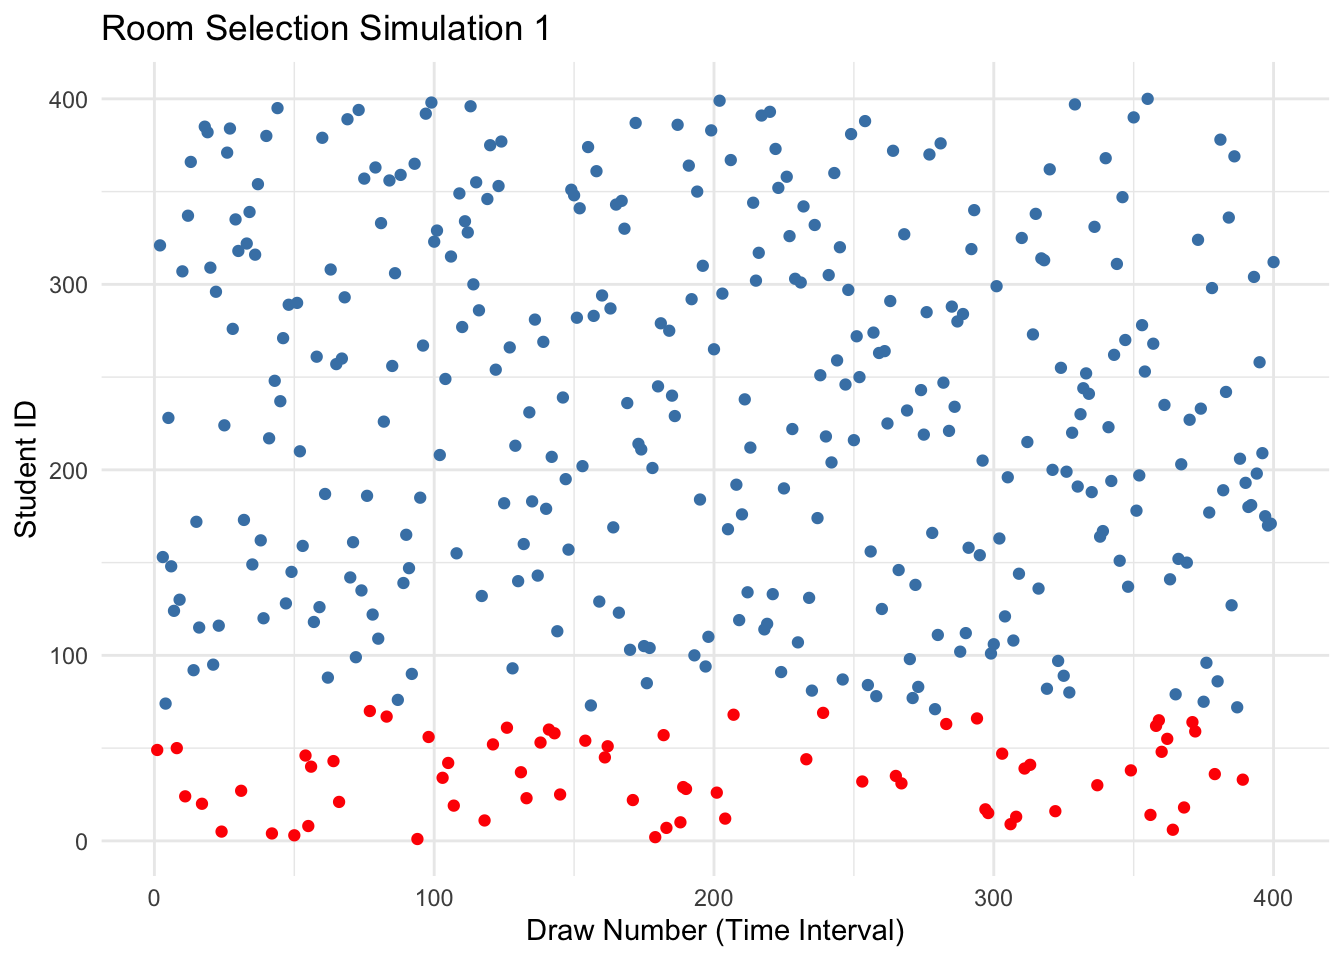
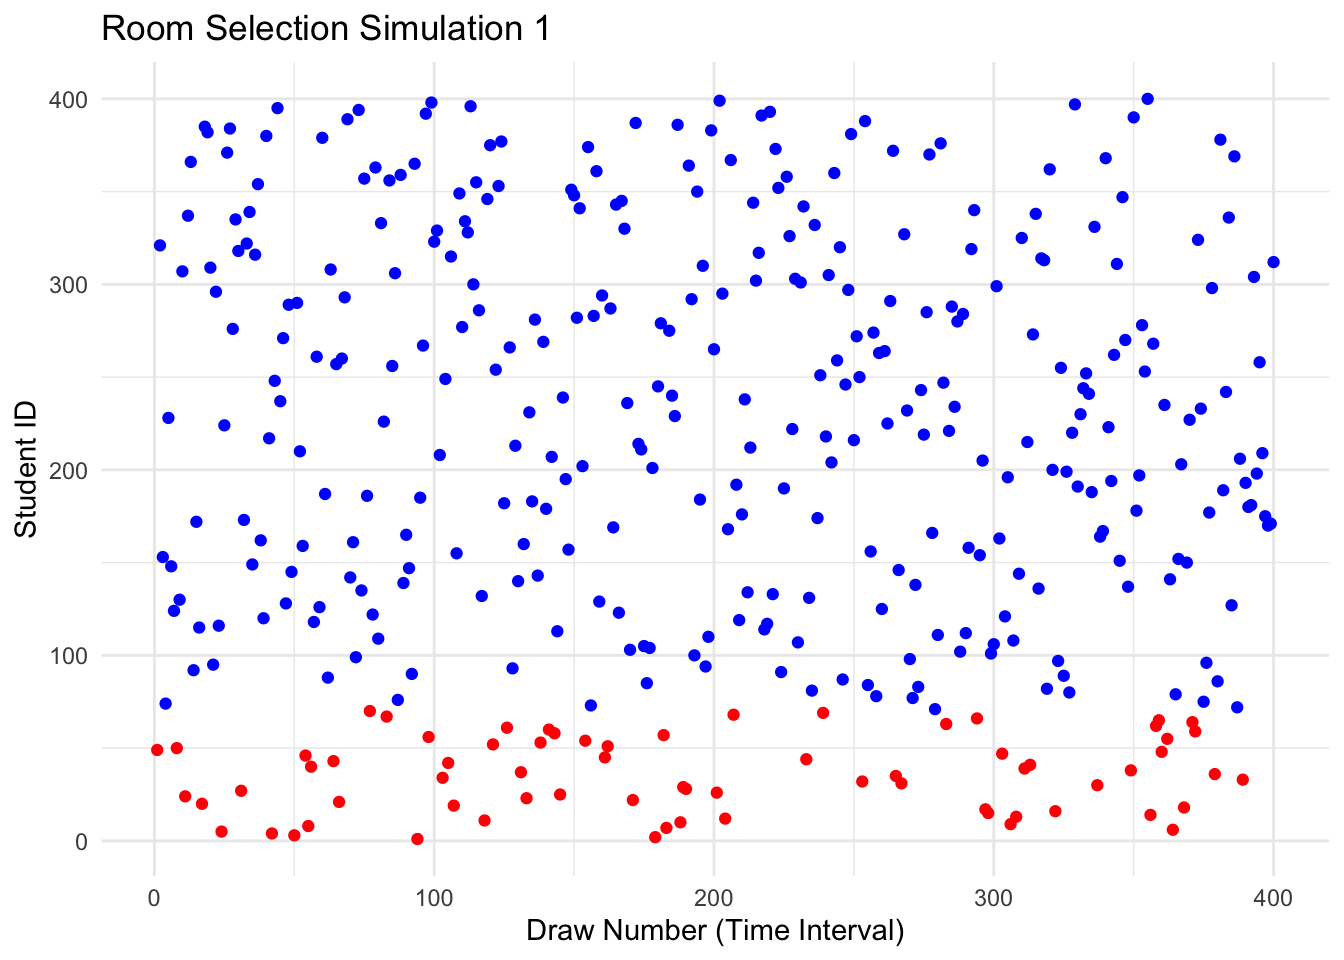
intro

diff --git a/docs/simulationproject.html b/docs/simulationproject.html
@@ -189,6 +189,7 @@ pre > code.sourceCode > span > a:first-child::before { text-decoration: underlin
 </header>
 
 
+<p>Last semester I was given one of the worst possible times, ending up in the last 15 mins of the nearly 4 hour process. My aspirations of getting a single dashed in an instant when I checked my time. Now as I look ahead for the following years I am still looking to occupy my own room. I understand there are now more options such as a suite or going off campus but in order to keep the simulation effective and repeatable with map I utilized the same concept for all three years. (Freshman year there was no room draw). I estimated that there were around 70 singles opportunities for the 400 students we have in each grade. I then simulated each and then calculated the percentage of students that get a a single at least once in their three years here.</p>
 <div class="cell">
 <details class="code-fold">
 <summary>Code</summary>
@@ -250,7 +251,7 @@ pre > code.sourceCode > span > a:first-child::before { text-decoration: underlin
 <span id="cb2-5"><a href="#cb2-5" aria-hidden="true" tabindex="-1"></a>    draw_number <span class="ot">&lt;-</span> <span class="dv">1</span><span class="sc">:</span><span class="fu">length</span>(order_of_picking)</span>
 <span id="cb2-6"><a href="#cb2-6" aria-hidden="true" tabindex="-1"></a>    </span>
 <span id="cb2-7"><a href="#cb2-7" aria-hidden="true" tabindex="-1"></a>    <span class="co"># Determine the color for each student (red for the first 70, blue otherwise)</span></span>
-<span id="cb2-8"><a href="#cb2-8" aria-hidden="true" tabindex="-1"></a>    colors <span class="ot">&lt;-</span> <span class="fu">ifelse</span>(order_of_picking <span class="sc">&lt;=</span> <span class="dv">70</span>, <span class="st">"red"</span>, <span class="st">"steelblue"</span>)</span>
+<span id="cb2-8"><a href="#cb2-8" aria-hidden="true" tabindex="-1"></a>    colors <span class="ot">&lt;-</span> <span class="fu">ifelse</span>(order_of_picking <span class="sc">&lt;=</span> <span class="dv">70</span>, <span class="st">"red"</span>, <span class="st">"blue"</span>)</span>
 <span id="cb2-9"><a href="#cb2-9" aria-hidden="true" tabindex="-1"></a>    </span>
 <span id="cb2-10"><a href="#cb2-10" aria-hidden="true" tabindex="-1"></a>    <span class="co"># Create a tibble to plot the points</span></span>
 <span id="cb2-11"><a href="#cb2-11" aria-hidden="true" tabindex="-1"></a>    <span class="fu">tibble</span>(<span class="at">student =</span> order_of_picking, <span class="at">draw_number =</span> draw_number, <span class="at">color =</span> colors) <span class="sc">%&gt;%</span></span>
